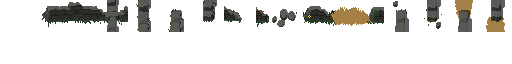
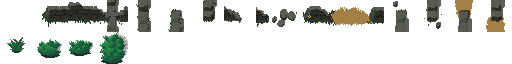
Add some bushes to forest terrain

Changed region(s): [[0.0, 0.5312, 0.25, 1.0]]

diff --git a/src/generation/object/lib/object_name.rs b/src/generation/object/lib/object_name.rs
@@ -65,6 +65,10 @@ pub enum ObjectName {
   ForestTree3,
   ForestTree4,
   ForestTree5,
+  ForestBush1,
+  ForestBush2,
+  ForestBush3,
+  ForestBush4,
 }
 
 impl ObjectName {
